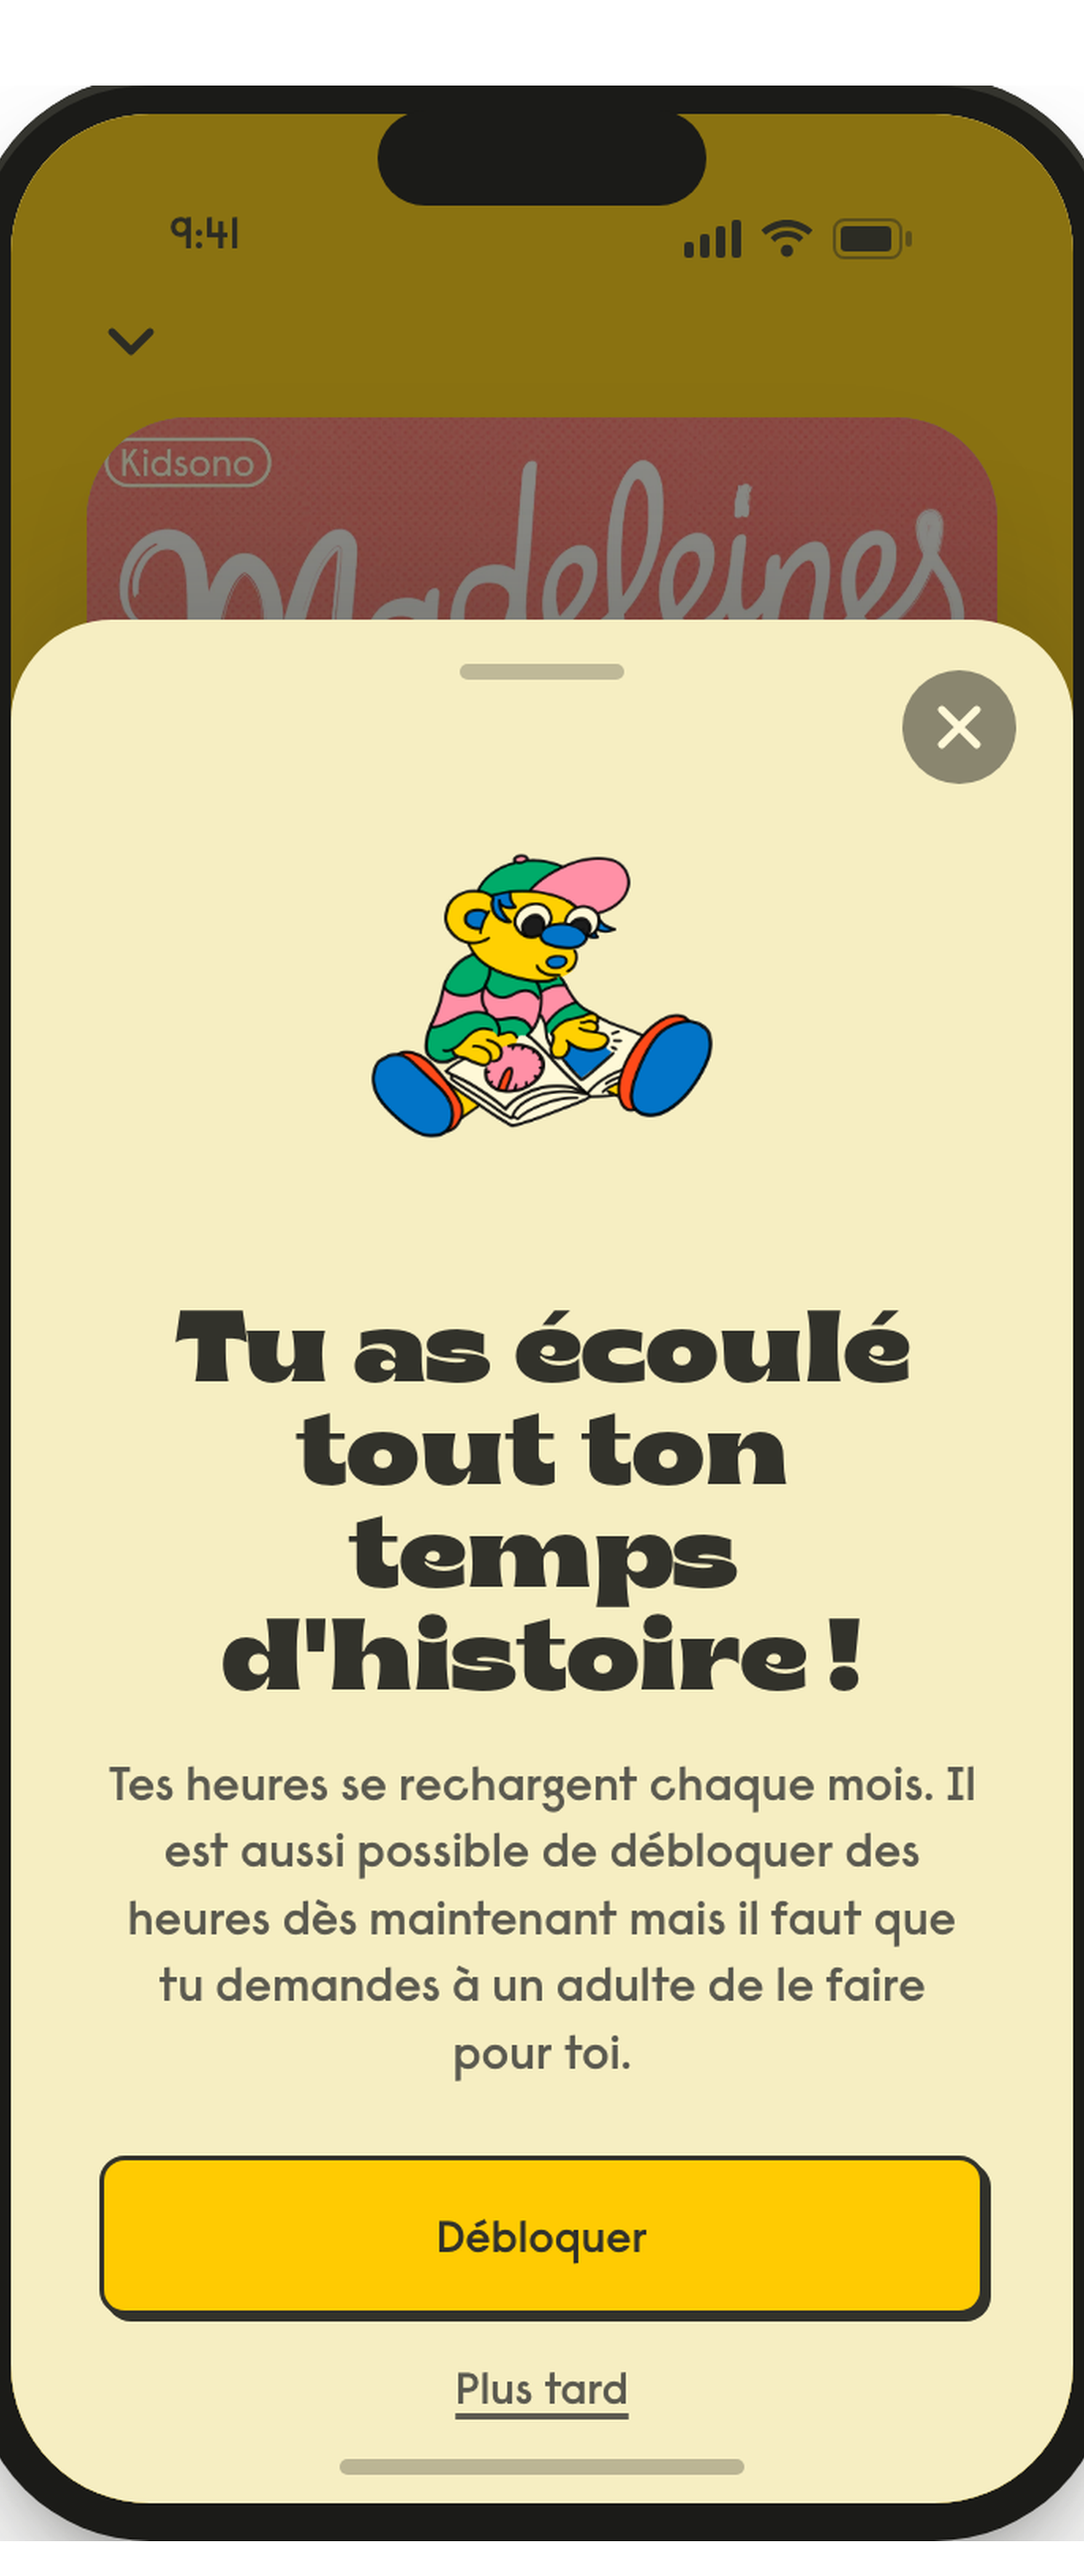
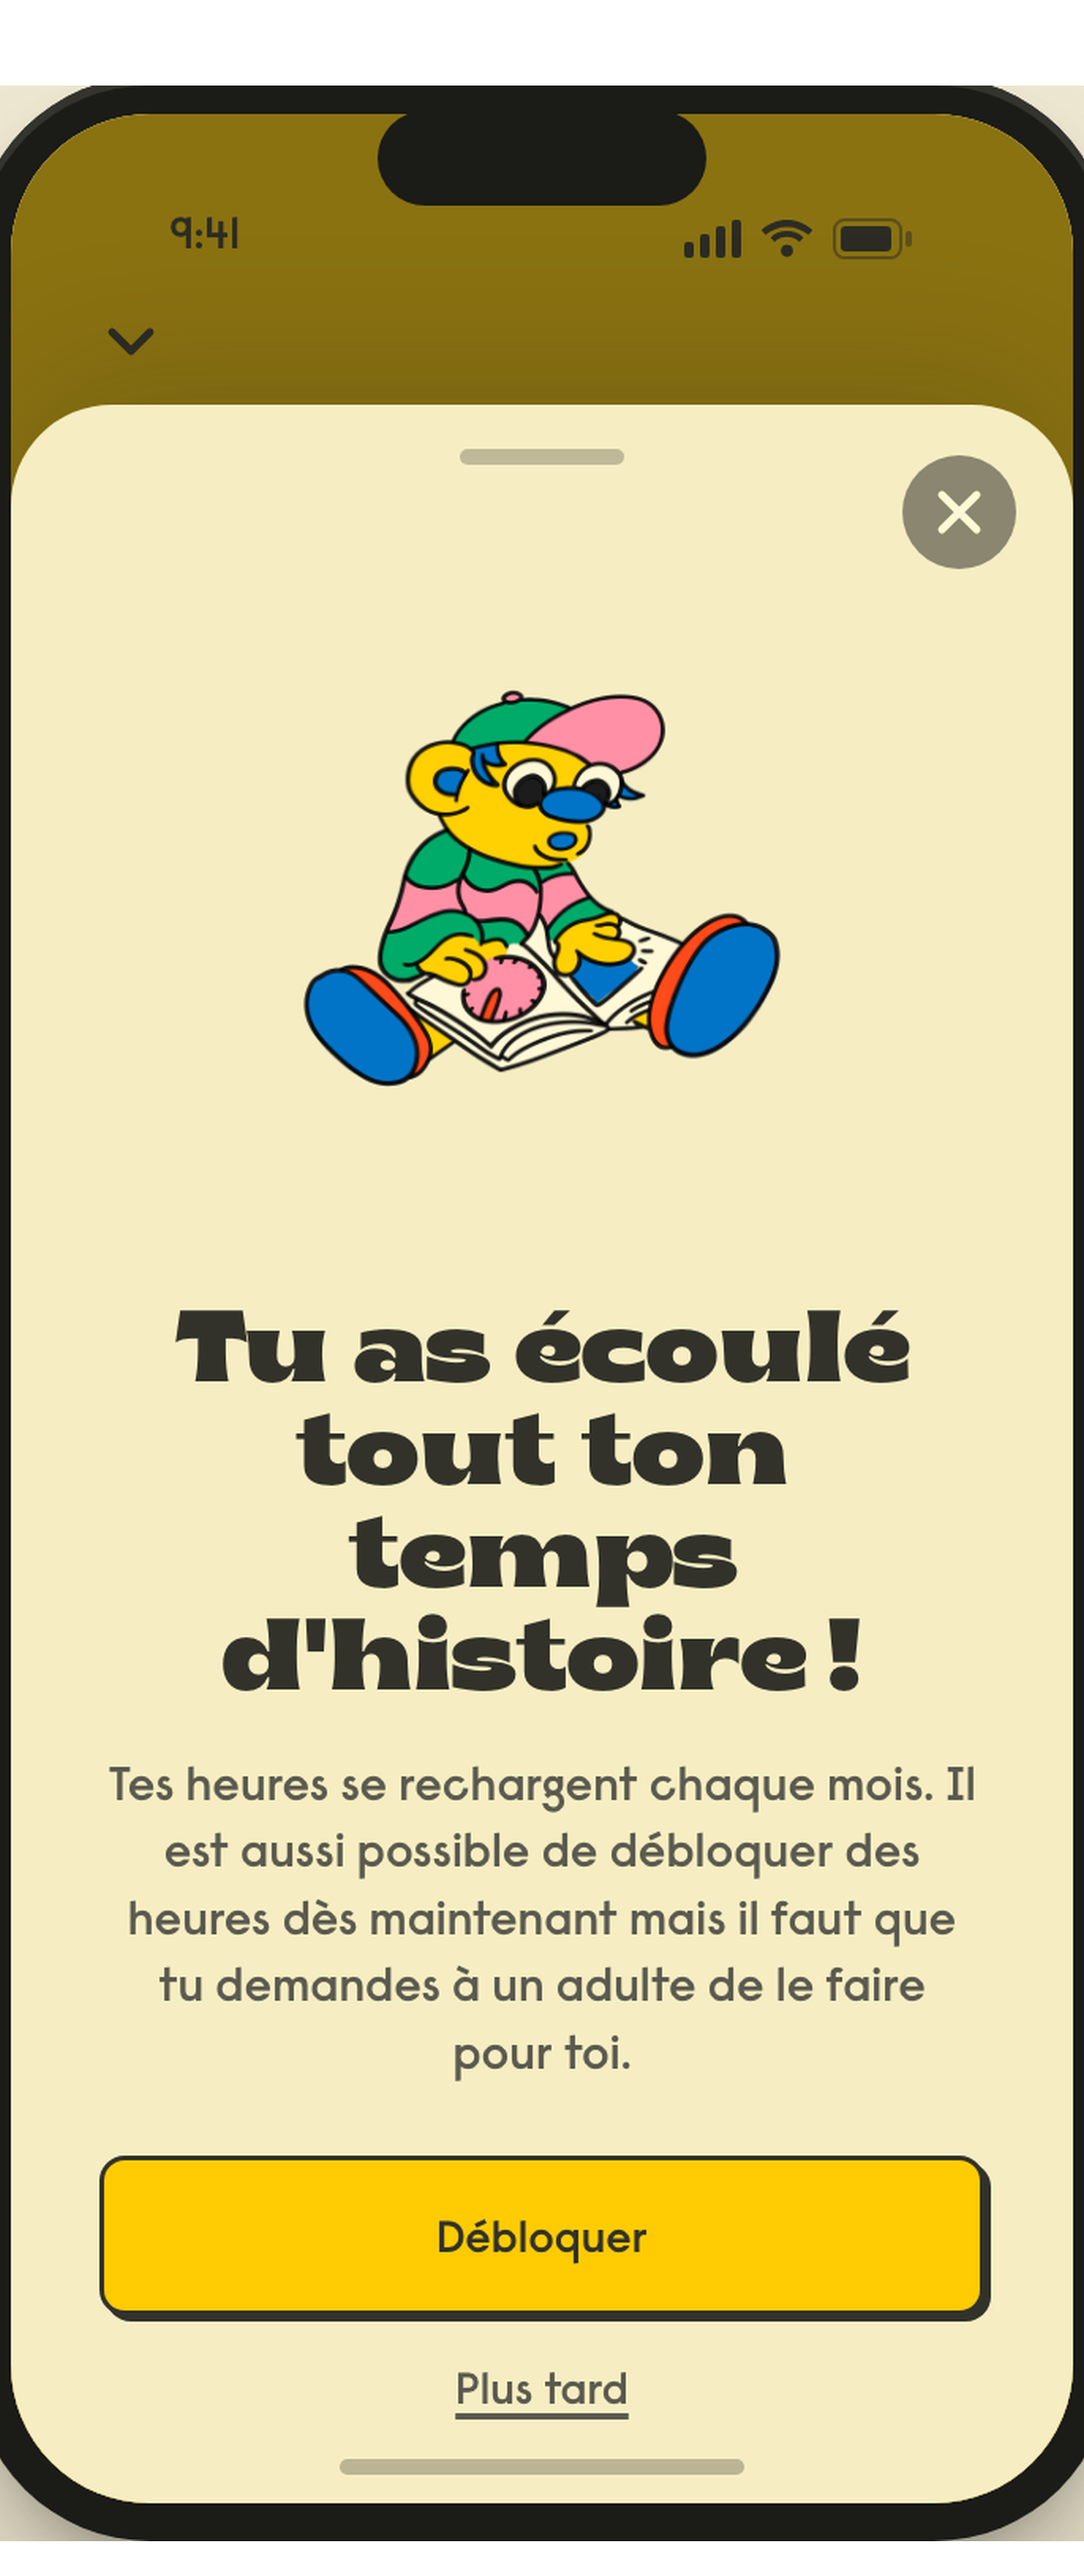
feat: add offertes-activees/terminees + connexion screens (stacked branches), update fin-de-temps illustration, NEW badges

diff --git a/kidsono-analyses-onboarding/schema-navigation.html b/kidsono-analyses-onboarding/schema-navigation.html
@@ -38,6 +38,7 @@
   .thumb img{display:block;width:100%;height:auto;cursor:zoom-in;}
   .tag{font-size:8.5px;font-weight:800;text-transform:uppercase;letter-spacing:.4px;padding:2px 6px;border-radius:5px;color:#fff;align-self:flex-start;}
   .tag.ply{background:var(--ply);} .tag.nat{background:var(--nat);} .tag.dev{background:var(--dev);} .tag.apple{background:var(--apple);}
+  .neuf{position:absolute;top:-9px;right:-9px;z-index:6;font-size:9.5px;font-weight:800;letter-spacing:.4px;text-transform:uppercase;color:#fff;background:#16a34a;border:2px solid #fff;border-radius:7px;padding:3px 8px;box-shadow:0 2px 6px rgba(0,0,0,.28);}
   .nname{font-size:12.5px;font-weight:800;color:#191919;line-height:1.2;}
   .nname.tech{font-family:ui-monospace,Menlo,monospace;font-size:11.5px;color:#4f46e5;word-break:break-all;}
   .official{font-size:9px;font-weight:600;color:#8a8a8a;font-style:italic;line-height:1.25;border-top:1px dotted #ddd;padding-top:4px;}
@@ -108,7 +109,7 @@
   // ---- données : ordre = déroulé ; pos = position du bouton sur l'écran ----
   var NODES=[
     {id:'splash',name:'Splash',type:'nat',img:'01-splash.png',b:[['(auto)','accroche',0,'b']]},
-    {id:'accroche',name:'Accroche / Claim',type:'ply',img:'02-accroche.png',pid:'claim_accroche',b:[["Je découvre",'consent',1,'b'],['Se connecter','compte',0,'b']]},
+    {id:'accroche',name:'Accroche / Claim',type:'ply',img:'02-accroche.png',pid:'claim_accroche',b:[["Je découvre",'consent',1,'b'],['Se connecter','connexion',0,'b']]},
     {id:'consent',name:'Consentement parents',type:'ply',img:'consent-donnees.png',pid:'consentement_parents',b:[['Accepter','car1',1,'b'],['Ne pas accepter','car1',0,'b']]},
     {id:'car1',name:'Carrousel 1 · Catalogue',type:'ply',img:'valeur-1-catalogue.png',pid:'onboarding_catalogue',b:[['◂ Retour','consent',0,'t'],['Passer','catalogue',0,'t'],['Suivant','car2',1,'b']]},
     {id:'car2',name:'Carrousel 2 · Autorité',type:'ply',img:'06-autorite.png',pid:'onboarding_autorite',b:[['◂ Retour','car1',0,'t'],['Passer','catalogue',0,'t'],['Suivant','car3',1,'b']]},
@@ -116,13 +117,20 @@
     {id:'catalogue',name:'Catalogue (accueil app)',type:'nat',img:'app-catalogue.png',b:[['Tap sur une histoire','fiche',0,'b']]},
     {id:'fiche',name:'Fiche histoire',type:'nat',img:'app-fiche-extrait.png',b:[['◂ Retour','catalogue',0,'t'],['Extrait gratuit (fin d’écoute)','modale',0,'b'],['Histoire complète','modale',1,'b']]},
     {id:'modale',name:'Mur 1 · Modale activation',type:'ply',img:'_mur1-modale.png',pid:'modale_deblocage',b:[['✕ Fermer','fiche',0,'t'],["J'essaie gratuitement",'compte',1,'b']]},
-    {id:'compte',name:'Création de compte',type:'nat',img:'08-creation-compte.png',b:[['✕ Fermer','catalogue',0,'t'],["S'inscrire avec Apple",'sso',0,'b'],["S'inscrire avec Google",'sso',0,'b'],["S'inscrire avec mon e-mail",'code',1,'b']]},
+    {id:'__comptestack',type:'stack',items:[
+      {id:'compte',name:'Création de compte',type:'nat',img:'08-creation-compte.png',b:[['✕ Fermer','catalogue',0,'t'],["S'inscrire avec Apple",'sso',0,'b'],["S'inscrire avec Google",'sso',0,'b'],["S'inscrire avec mon e-mail",'code',1,'b']]},
+      {id:'connexion',name:'Connexion au compte',type:'nat',neuf:1,img:'connexion-compte.png',b:[['✕ Fermer','catalogue',0,'t'],['Se connecter avec Apple','sso',0,'b'],['Se connecter avec Google','sso',0,'b'],['Se connecter avec mon e-mail','code',1,'b']]}
+    ]},
     {id:'__codestack',type:'stack',items:[
       {id:'sso',type:'ph',kind:'signup',phT:'🔑 Process d’inscription ou connexion SSO',phD:'Inscription si nouveau compte, sinon connexion (géré par l’OS).',b:[['Inscription / connexion effectuée','verif20',0,'b']]},
       {id:'code',name:'Code de vérification',type:'nat',img:'09-code-verification.png',b:[["◂ Corriger l'e-mail",'compte',0,'t'],['Vérifier','verif20',1,'b']]}
     ]},
-    {id:'verif20',type:'ph',kind:'verif',img:null,phT:'🔎 Vérification : a déjà bénéficié des 20 min offertes ?',phD:'Paramètre lié au compte, vérifiable uniquement après connexion.',warn:'Vérification importante pour les utilisateurs ayant déjà bénéficié mais qui n’étaient pas connectés jusqu’ici.',b:[['N’a pas encore bénéficié des 20 min offertes','profil',0,'b'],['A déjà bénéficié mais n’a pas terminé ses 20 min','usage1',0,'b'],['A déjà bénéficié et a terminé ses 20 min','usage2',0,'b']]},
-    {id:'profil',name:'Profil / personnalisation',type:'nat',img:'10-profil.png',b:[['Valider','usage1',1,'b']]},
+    {id:'verif20',type:'ph',kind:'verif',img:null,phT:'🔎 Vérification : a déjà bénéficié des 20 min offertes ?',phD:'Paramètre lié au compte, vérifiable uniquement après connexion.',warn:'Vérification importante pour les utilisateurs ayant déjà bénéficié mais qui n’étaient pas connectés jusqu’ici.',b:[['N’a pas encore bénéficié des 20 min offertes','profil',0,'b'],['A déjà bénéficié mais n’a pas terminé ses 20 min','activees',0,'b'],['A déjà bénéficié et a terminé ses 20 min','terminees',0,'b']]},
+    {id:'__profilstack',type:'stack',items:[
+      {id:'profil',name:'Profil / personnalisation',type:'nat',img:'10-profil.png',b:[['Valider','usage1',1,'b']]},
+      {id:'activees',name:'Modale · histoires offertes activées',type:'ply',off:1,neuf:1,img:'offertes-activees.png',b:[['✕ Fermer','catalogue',0,'t'],['J’écoute mes histoires offertes','usage1',1,'b']]},
+      {id:'terminees',name:'Modale · histoires offertes terminées',type:'ply',off:1,neuf:1,img:'offertes-terminees.png',b:[['✕ Fermer','catalogue',0,'t'],['Je choisis ma formule','usage2',1,'b']]}
+    ]},
     {id:'usage1',name:'',type:'ph',img:null,phT:'🎧 Phase d’utilisation des 20 minutes offertes',phD:'Écoute des 20 min offertes (navigation libre + lecteur).',b:[['Les 20 min s’écoulent','usage2',0,'b']]},
     {id:'usage2',name:'',type:'ph',img:null,phT:'⏳ Fin d’utilisation des 20 minutes offertes',phD:'',b:[['Les 20 min offertes sont écoulées au milieu d’une histoire','paywall',0,'b'],['Les 20 min offertes sont écoulées et l’utilisateur veut relancer une histoire','paywall',0,'b'],['Les 20 min sont écoulées et l’utilisateur écoute un extrait d’histoire en entier','paywall',0,'b']]},
     {id:'paywall',name:'Mur 2 · Paywall valeur',type:'ply',img:'1-paywall-valeur.png',pid:'paywall_valeur',b:[['✕ Fermer','catalogue',0,'t'],['Je choisis ma formule','formules',1,'b']]},
@@ -149,7 +157,7 @@
     var top=n.b.filter(function(b){return b[3]==='t';}), bot=n.b.filter(function(b){return b[3]==='b';});
     var topH = split ? '<div class="btns top">'+top.map(btnHTML).join('')+'</div>' : '';
     var botList = split ? bot : n.b;
-    return '<div class="node '+n.type+'" data-node="'+n.id+'">'+topH
+    return '<div class="node '+n.type+'" data-node="'+n.id+'">'+(n.neuf?'<span class="neuf">✦ Nouveau</span>':'')+topH
       +'<div class="thumb"><img src="'+IMG+n.img+'"></div>'
       +'<span class="tag '+n.type+'">'+(n.type==='ply'?'Purchasely':n.type==='dev'?'Natif à dév.':n.type==='apple'?'Apple':'Natif')+'</span>'
       +'<div class="nname'+(n.pid?' tech':'')+'">'+(n.pid||n.name)+'</div>'
